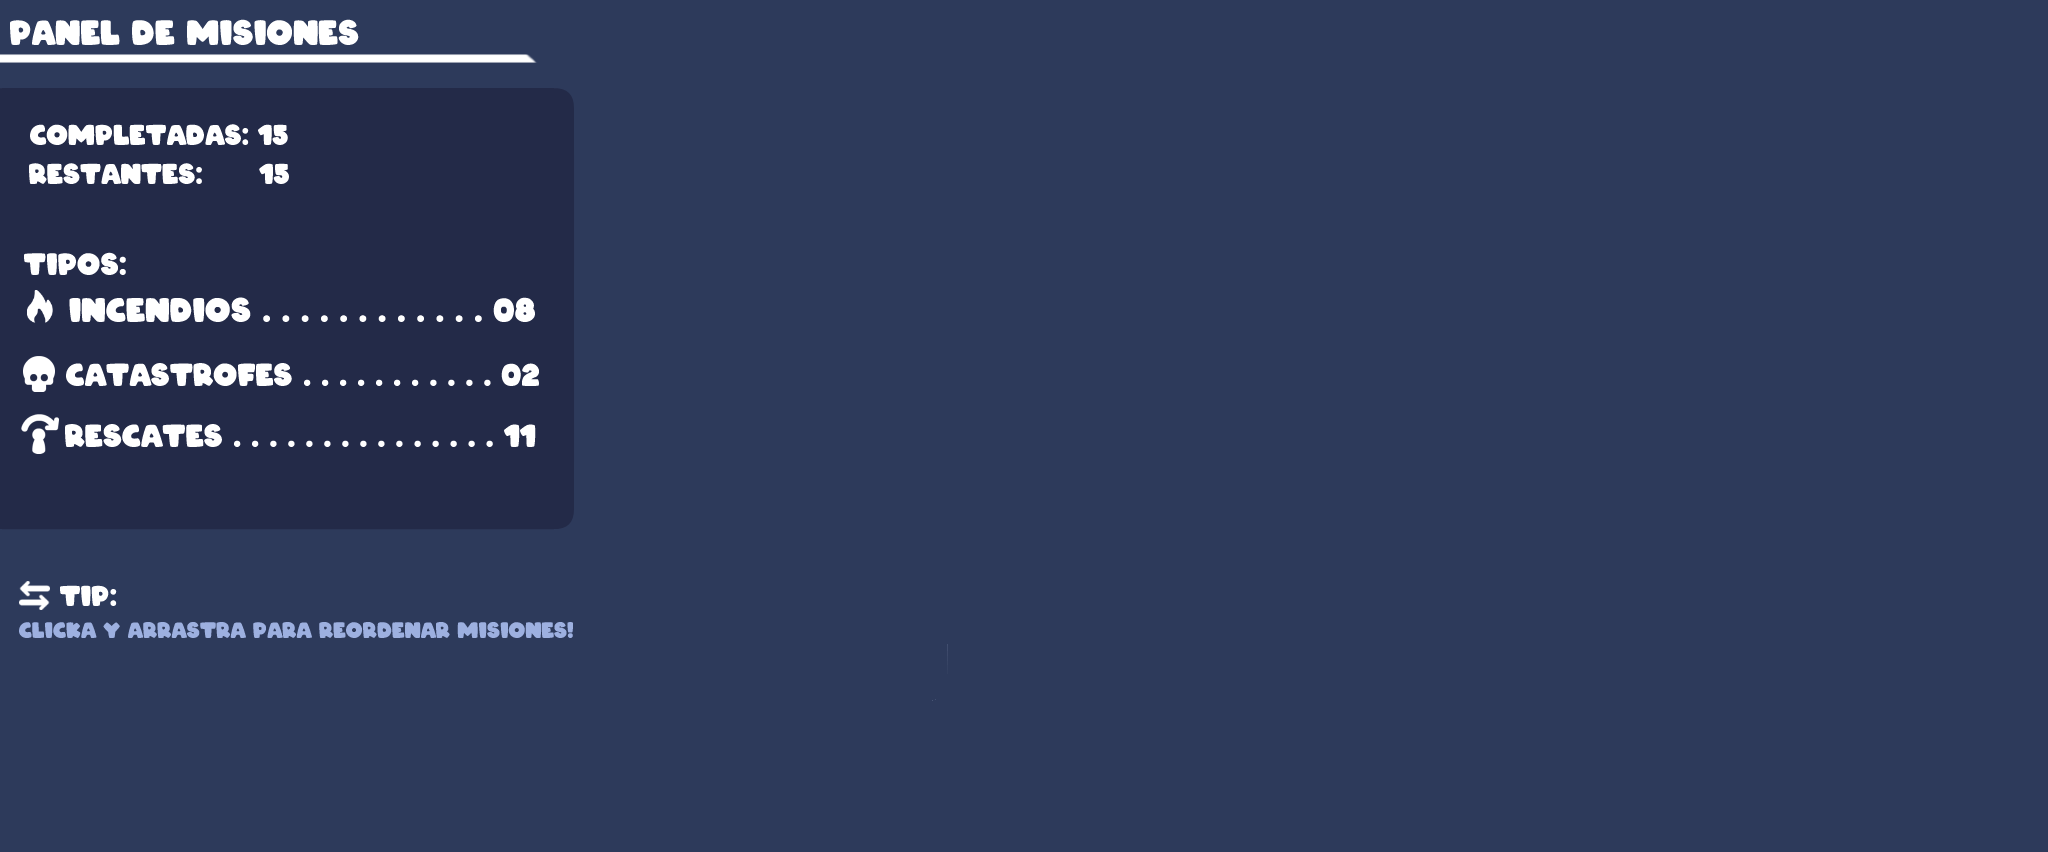
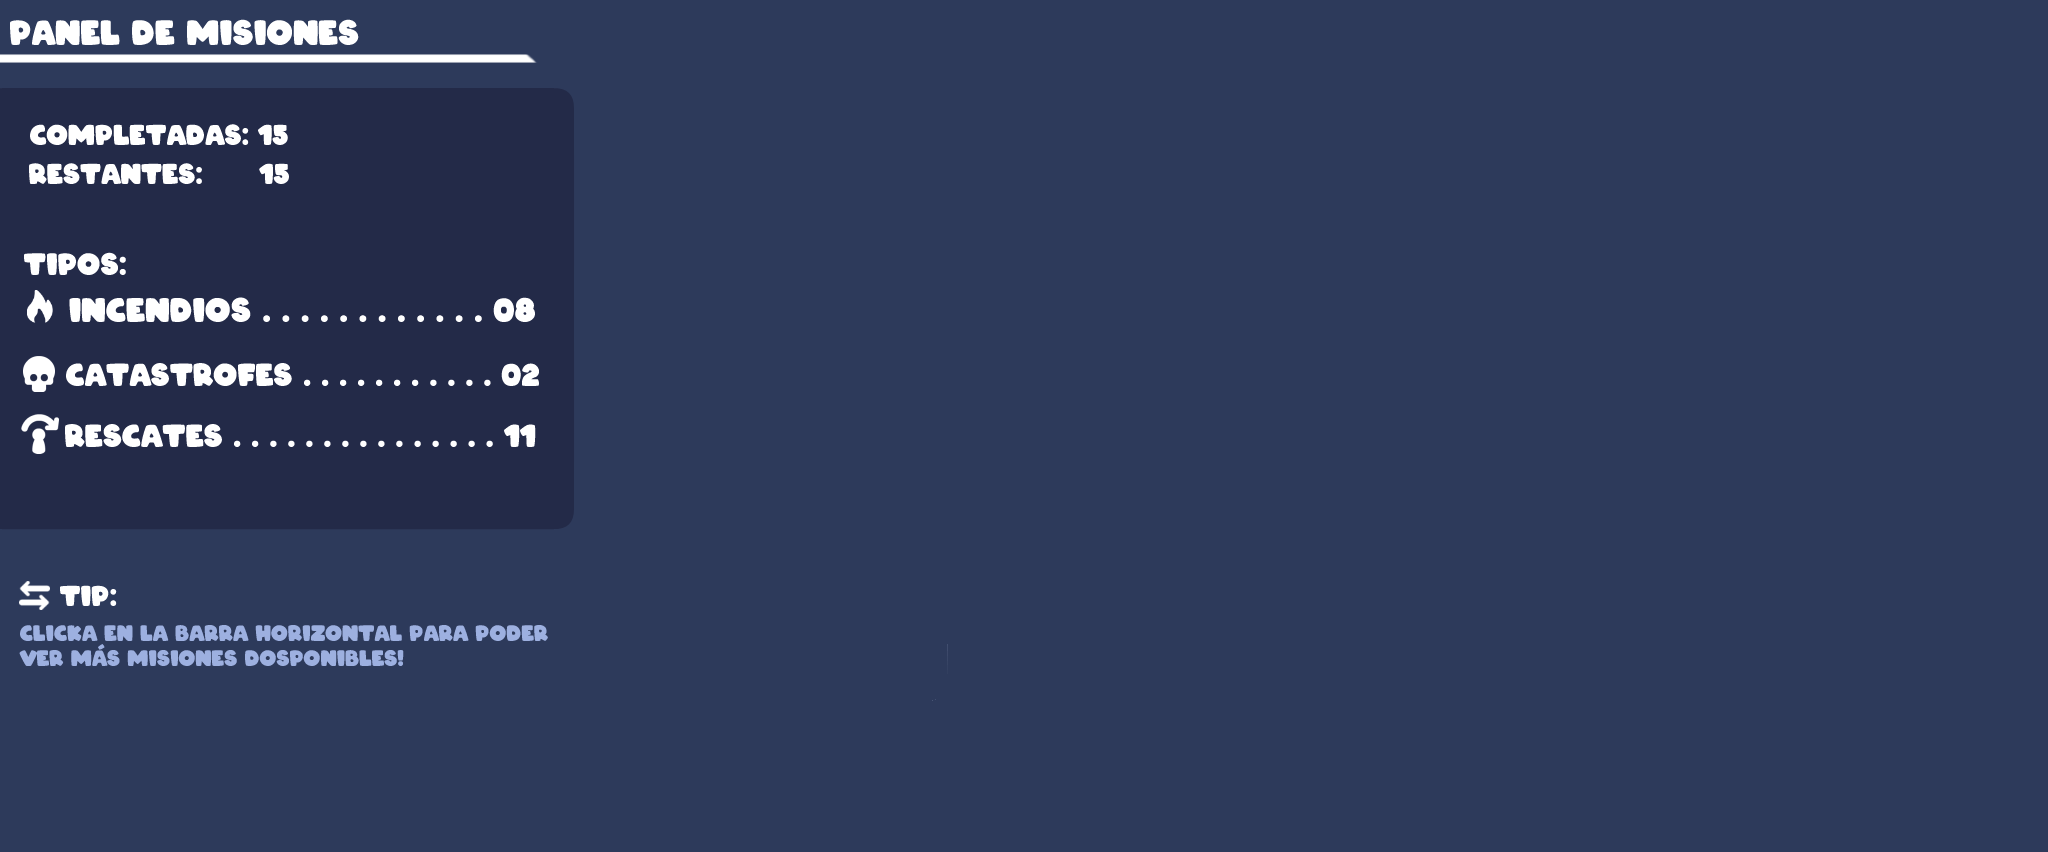
Misiones Terminas

Changed region(s): [[0.0, 0.7324, 0.2812, 0.7934]]

diff --git a/dsi-mockup-pero-en-xaml-xd/gameplay.xaml b/dsi-mockup-pero-en-xaml-xd/gameplay.xaml
@@ -246,11 +246,16 @@
                 <ColumnDefinition Width="2*"/>
             </Grid.ColumnDefinitions>
             <Image Source="/Assets/log.png" VerticalAlignment="Center"  Grid.ColumnSpan="2" Grid.RowSpan="3"/>
-            <ScrollViewer Grid.Column="1" Grid.Row="0" Margin="10,50,10,10" FlowDirection="LeftToRight">
-            <StackPanel Orientation="Horizontal"  >
+            <ScrollViewer Grid.RowSpan="2"  VerticalScrollBarVisibility= "Disabled" HorizontalScrollBarVisibility="Visible" Grid.Column="1"
+                          Grid.Row="0" Margin="10,50,10,10" FlowDirection="LeftToRight" >
+                <StackPanel Orientation="Horizontal" Margin="10,10,10,50">
                 <Image Source="/Assets/Mision01.png" VerticalAlignment="Center" Grid.ColumnSpan="2" Grid.RowSpan="3" Margin="10,10,10,10"/>
                 <Image Source="/Assets/Mision02.png" VerticalAlignment="Center" Grid.ColumnSpan="2" Grid.RowSpan="3" Margin="10,10,10,10"/>
                 <Image Source="/Assets/Mision03.png" VerticalAlignment="Center" Grid.ColumnSpan="2" Grid.RowSpan="3" Margin="10,10,10,10"/>
+                <Image Source="/Assets/Mision02.png" VerticalAlignment="Center" Grid.ColumnSpan="2" Grid.RowSpan="3" Margin="10,10,10,10"/>
+                <Image Source="/Assets/Mision03.png" VerticalAlignment="Center" Grid.ColumnSpan="2" Grid.RowSpan="3" Margin="10,10,10,10"/>
+                <Image Source="/Assets/Mision02.png" VerticalAlignment="Center" Grid.ColumnSpan="2" Grid.RowSpan="3" Margin="10,10,10,10"/>
+                <Image Source="/Assets/Mision01.png" VerticalAlignment="Center" Grid.ColumnSpan="2" Grid.RowSpan="3" Margin="10,10,10,10"/>
             </StackPanel>
             </ScrollViewer>
             <Button Style="{StaticResource GameButton}" HorizontalAlignment="Left" VerticalAlignment="Bottom" Grid.Column="0" Grid.Row="1" Click="Back5_Click"  Width="175" Background="Transparent">
